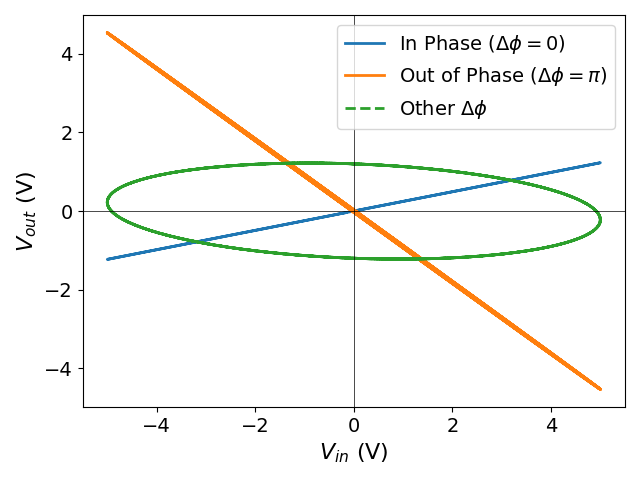
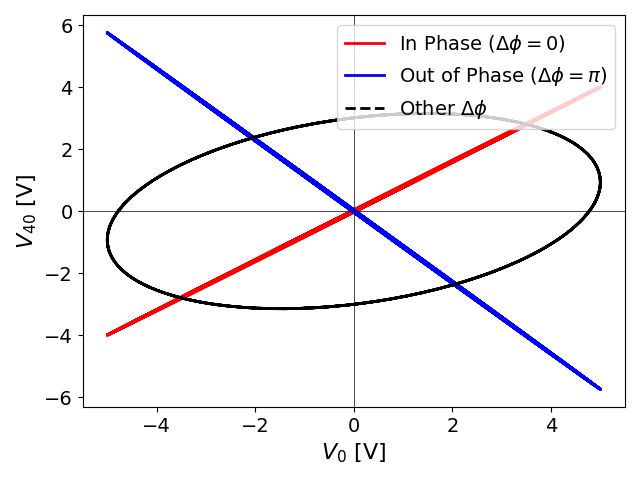
Figures changes

diff --git a/src/electrical/transfer_comparison.py b/src/electrical/transfer_comparison.py
@@ -146,32 +146,33 @@ def H_func_global(V_in_data, V_out_data, t_array, freqs, t_std, dz_exp=0.0):
     return H_global, y0, dH_global
 
 
-for sim_num in range(2):
-    # Domain Randomization Parameters
-    power_rule = np.random.normal(power_rule_0, 0.02 * power_rule_0)
-    R_in = np.random.normal(R_in_0, R_in_0 * 0.05)  # 5% tolerance on input resistor
-    R_out_mult = np.random.normal(1.0, 0.05)  # 5% tolerance on output resistors
-    noise_std = np.random.uniform(0.5e-3, 2.0e-3)  # Varying noise floor
-    global_temp_drift = np.random.uniform(0.98, 1.02)  # +/- 2% global capacitance drift
-    C_batch_factor = np.random.uniform(1.0, 5.0)
-    L_batch_factor = np.random.uniform(1.0, 5.0)
+# Domain Randomization Parameters
+power_rule = np.random.normal(power_rule_0, 0.02 * power_rule_0)
+R_in = np.random.normal(R_in_0, R_in_0 * 0.05)  # 5% tolerance on input resistor
+R_out_mult = np.random.normal(1.0, 0.05)  # 5% tolerance on output resistors
+noise_std = np.random.uniform(0.5e-3, 2.0e-3)  # Varying noise floor
+global_temp_drift = np.random.uniform(0.98, 1.02)  # +/- 2% global capacitance drift
+C_batch_factor = np.random.uniform(1.0, 5.0)
+L_batch_factor = np.random.uniform(1.0, 5.0)
 
-    k_power = (R_ratio_test - 1) / f_test**power_rule_0
-    if sim_num == 0:
-        k_power = 0.0
-
-    # Build the Matrices (randomized)
-    C = np.concatenate(
-        (
-            [np.random.normal(C_end, dC_end / C_batch_factor)],
-            np.random.normal(C_0, dC / C_batch_factor, N - 2),
-            [np.random.normal(C_end, dC_end / C_batch_factor)],
-        )
+# Build the Matrices (randomized)
+C = np.concatenate(
+    (
+        [np.random.normal(C_end, dC_end / C_batch_factor)],
+        np.random.normal(C_0, dC / C_batch_factor, N - 2),
+        [np.random.normal(C_end, dC_end / C_batch_factor)],
     )
-    C *= global_temp_drift
+)
+C *= global_temp_drift
 
-    L = np.random.normal(L_0, dL / L_batch_factor, N - 1)
-    R_L = np.random.normal(R_L_0, dR_L, N - 1)
+L = np.random.normal(L_0, dL / L_batch_factor, N - 1)
+R_L = np.random.normal(R_L_0, dR_L, N - 1)
+
+k_power = 0.0
+
+for sim_num in range(2):
+    if sim_num == 1:
+        k_power = (R_ratio_test - 1) / f_test**power_rule_0
 
     # Calculate theoretical cutoff angular frequency based on nominal values
     omega_c = 2.0 / np.sqrt(L_0 * C_0)
@@ -279,29 +280,99 @@ plt.rc("axes", labelsize=14)
 plt.rc("xtick", labelsize=14)
 plt.rc("ytick", labelsize=14)
 
-# Create a figure with two subplots, sharing x and y axes
-fig, (ax1, ax2) = plt.subplots(2, 1, figsize=(6.4, 9.6))
+# Create a figure with two subplots
+fig, (ax1, ax2) = plt.subplots(2, 1, figsize=(6.4, 9.6))  # 6.4, 4.8
+
+f_cutoff = np.sqrt(1 / L_0 / C_0) / np.pi
 
 # Top subplot: H_1 (k_power=0) vs H_exp
-ax1.plot(freqs_1 / 1e3, np.abs(H_1), "bo-", label="Simulation")
-ax1.errorbar(y0_exp / 1e3, np.abs(H_exp), yerr=dH_exp, fmt="ro-", label="Experiment")
-ax2.set_xlabel("Frequency (kHz)", fontsize=16)
-ax1.set_ylabel("$|V_{40}(f) / V_0(f)|$", fontsize=16)
-ax1.legend(loc="lower left", fontsize=12)
+(sim_1,) = ax1.plot(freqs_1 / 1e3, np.abs(H_1), "bo-", label="Simulation")
+exp_1 = ax1.errorbar(
+    y0_exp / 1e3, np.abs(H_exp), yerr=dH_exp, fmt="ro-", label="Experiment"
+)
+vline_1 = ax1.axvline(
+    x=f_cutoff / 1000,
+    color="k",
+    linestyle="--",
+    label=r"Cut-off frequency $f_c$",
+)
+
+handles_1 = [sim_1, exp_1, vline_1]
+labels_1 = [h.get_label() for h in handles_1]
+ax1.set_xlabel("Frequency [kHz]", fontsize=16)
+ax1.set_ylabel("$V_{40}(f) / V_0(f)$", fontsize=16)
+ax1.legend(handles_1, labels_1, loc="lower left", fontsize=12)
 ax1.set_xlim((frequencies[0] - (0.5 / (2 * np.pi * sigma))) / 1e3, 150)
 ax1.set_ylim(0, 1.2)
 
 # Bottom subplot: H_2 (randomized k_power) vs H_exp
-ax2.plot(freqs_2 / 1e3, np.abs(H_2), "bo-", label="Simulation")
-ax2.errorbar(y0_exp / 1e3, np.abs(H_exp), yerr=dH_exp, fmt="ro-", label="Experiment")
-ax2.set_xlabel("Frequency (kHz)", fontsize=16)
-ax2.set_ylabel("$|V_{40}(f) / V_0(f)|$", fontsize=16)
-ax2.legend(loc="lower left", fontsize=12)
-
-# Set common x and y limits
+(sim_2,) = ax2.plot(freqs_2 / 1e3, np.abs(H_2), "bo-", label="Simulation")
+exp_2 = ax2.errorbar(
+    y0_exp / 1e3, np.abs(H_exp), yerr=dH_exp, fmt="ro-", label="Experiment"
+)
+vline_2 = ax2.axvline(
+    x=f_cutoff / 1000,
+    color="k",
+    linestyle="--",
+    label=r"Cut-off frequency $f_c$",
+)
+handles_2 = [sim_2, exp_2, vline_2]
+labels_2 = [h.get_label() for h in handles_2]
+ax2.set_xlabel("Frequency [kHz]", fontsize=16)
+ax2.set_ylabel("$V_{40}(f) / V_0(f)$", fontsize=16)
+ax2.legend(handles_2, labels_2, loc="lower left", fontsize=12)
 ax2.set_xlim((frequencies[0] - (0.5 / (2 * np.pi * sigma))) / 1e3, 150)
 ax2.set_ylim(0, 1.2)
 
 plt.tight_layout()
 plt.savefig("figures/transfer_comparison.png")
+plt.show()
+
+
+# Create a figure with two subplots
+fig, (ax1, ax2) = plt.subplots(1, 2, figsize=(12.8, 4.8))
+
+f_cutoff = np.sqrt(1 / L_0 / C_0) / np.pi
+
+# Top subplot: H_1 (k_power=0) vs H_exp
+(sim_1,) = ax1.plot(freqs_1 / 1e3, np.abs(H_1), "bo-", label="Simulation")
+exp_1 = ax1.errorbar(
+    y0_exp / 1e3, np.abs(H_exp), yerr=dH_exp, fmt="ro-", label="Experimental data"
+)
+vline_1 = ax1.axvline(
+    x=f_cutoff / 1000,
+    color="k",
+    linestyle="--",
+    label=r"Cut-off frequency $f_c$",
+)
+
+handles_1 = [sim_1, exp_1, vline_1]
+labels_1 = [h.get_label() for h in handles_1]
+ax1.set_xlabel("Frequency [kHz]", fontsize=16)
+ax1.set_ylabel("$V_{40}(f) / V_0(f)$", fontsize=16)
+ax1.legend(handles_1, labels_1, loc="lower left", fontsize=12)
+ax1.set_xlim((frequencies[0] - (0.5 / (2 * np.pi * sigma))) / 1e3, 150)
+ax1.set_ylim(0, 1.2)
+
+# Bottom subplot: H_2 (randomized k_power) vs H_exp
+(sim_2,) = ax2.plot(freqs_2 / 1e3, np.abs(H_2), "bo-", label="Simulation")
+exp_2 = ax2.errorbar(
+    y0_exp / 1e3, np.abs(H_exp), yerr=dH_exp, fmt="ro-", label="Experimental data"
+)
+vline_2 = ax2.axvline(
+    x=f_cutoff / 1000,
+    color="k",
+    linestyle="--",
+    label=r"Cut-off frequency $f_c$",
+)
+handles_2 = [sim_2, exp_2, vline_2]
+labels_2 = [h.get_label() for h in handles_2]
+ax2.set_xlabel("Frequency [kHz]", fontsize=16)
+ax2.set_ylabel("$V_{40}(f) / V_0(f)$", fontsize=16)
+ax2.legend(handles_2, labels_2, loc="lower left", fontsize=12)
+ax2.set_xlim((frequencies[0] - (0.5 / (2 * np.pi * sigma))) / 1e3, 150)
+ax2.set_ylim(0, 1.2)
+
+plt.tight_layout()
+plt.savefig("figures/transfer_comparison_horizontal.png")
 plt.show()

diff --git a/src/electrical/phase_space_demo.py b/src/electrical/phase_space_demo.py
@@ -19,41 +19,41 @@ def main():
     v0 = amplitude * np.sin(omega * t)
 
     # Wave 1: In phase (dphi = 0)
-    v_in_phase = (
-        amplitude * np.sin(omega * t + 0.01 * random.random()) * random.random()
-    )
+    v_in_phase = amplitude * np.sin(omega * t + 0.01 * random.random()) * 0.8
 
     # Wave 2: Out of phase (dphi = pi)
-    v_out_phase = (
-        amplitude * np.sin(omega * t + np.pi + 0.01 * random.random()) * random.random()
-    )
+    v_out_phase = amplitude * np.sin(omega * t + np.pi + 0.01 * random.random()) * 1.15
 
     # Wave 3: pi/2 out of phase (dphi = pi/2)
-    v_quadrature = (
-        amplitude
-        * np.sin(omega * t + (np.pi / 2) + 0.3 * random.random())
-        * random.random()
-    )
+    v_quadrature = amplitude * np.sin(omega * t + (np.pi / 2) - 0.3) * 0.63
 
     # 3. Plot Phase Space (Lissajous Figures)
     plt.figure()
 
     # Plot V0 vs V_in_phase (Straight line, slope +1)
-    plt.plot(v0, v_in_phase, label=r"In Phase ($\Delta\phi=0$)", linewidth=2)
+    plt.plot(v0, v_in_phase, color="r", label=r"In Phase ($\Delta\phi=0$)", linewidth=2)
 
     # Plot V0 vs V_out_phase (Straight line, slope -1)
     plt.plot(
         v0,
         v_out_phase,
         label=r"Out of Phase ($\Delta\phi=\pi$)",
+        color="b",
         linewidth=2,
     )
 
     # Plot V0 vs V_quadrature (Circle)
-    plt.plot(v0, v_quadrature, label=r"Other $\Delta\phi$", linestyle="--", linewidth=2)
+    plt.plot(
+        v0,
+        v_quadrature,
+        label=r"Other $\Delta\phi$",
+        color="k",
+        linestyle="--",
+        linewidth=2,
+    )
 
-    plt.xlabel(r"$V_{in}$ (V)", fontsize=16)
-    plt.ylabel(r"$V_{out}$ (V)", fontsize=16)
+    plt.xlabel(r"$V_{0}$ [V]", fontsize=16)
+    plt.ylabel(r"$V_{40}$ [V]", fontsize=16)
     plt.axhline(0, color="black", linewidth=0.5)
     plt.axvline(0, color="black", linewidth=0.5)
     plt.xticks(fontsize=14)

diff --git a/src/electrical/ratios_comparison.py b/src/electrical/ratios_comparison.py
@@ -296,32 +296,40 @@ plt.figure()
 plt.rc("axes", labelsize=14)
 plt.rc("xtick", labelsize=14)
 plt.rc("ytick", labelsize=14)
-plt.errorbar(
-    frequencies / 1000, ratio_V40_V0, yerr=ratio_error, fmt="bo", label="Simulation"
+sim = plt.errorbar(
+    frequencies / 1000,
+    ratio_V40_V0,
+    yerr=ratio_error,
+    fmt="bo",
+    label="Simulation",
 )
-plt.errorbar(w * 1e-3 / 2 / np.pi, ratio, yerr=d_ratio, fmt="ro", label="Experimental")
-plt.plot(
+exp = plt.errorbar(
+    w * 1e-3 / 2 / np.pi, ratio, yerr=d_ratio, fmt="ro", label="Experimental data"
+)
+(sim_fit,) = plt.plot(
     frequencies / 1000,
     linear_func(frequencies, *popt_sim),
     "b--",
     label="Simulation Fit",
 )
-plt.plot(
+(exp_fit,) = plt.plot(
     frequencies / 1000,
     linear_func(frequencies, *popt_exp),
     "r--",
     label="Experimental Fit",
 )
-plt.axvline(
+vline = plt.axvline(
     x=f_cutoff / 1000,
     color="k",
     linestyle="--",
     label=r"Cut-off frequency $f_c$",
 )
-plt.title("Steady-State Amplitude Ratio", fontsize=16)
+handles = [sim, exp, sim_fit, exp_fit, vline]
+labels = [h.get_label() for h in handles]
+
 plt.xlabel("Frequency [kHz]", fontsize=16)
-plt.ylabel("Amplitude Ratio $V_{40} / V_0$", fontsize=16)
-plt.legend(loc="lower left", fontsize=14)
+plt.ylabel("$V_{40} / V_0$", fontsize=16)
+plt.legend(handles, labels, loc="lower left", fontsize=14)
 plt.tight_layout()
 plt.savefig("figures/ratio_comparison.png")
 plt.show()
